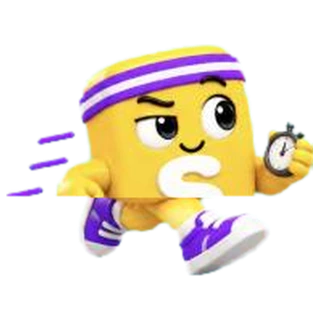
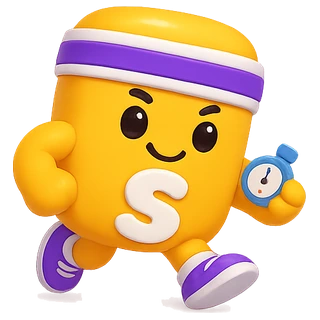
Call It coin (founder 10-10): a real 3D end-over-end flip at display rate — crouch, launch, five turns slowing as it falls, landing squash + bounce + teeter, then the reveal (glow + success haptic) and only then the result line; ticks slow with the spin. Cast accuracy: no cast art is ever mirrored (

diff --git a/apps/ios/Wordocious/Sources/FriendlyGameScreen.swift b/apps/ios/Wordocious/Sources/FriendlyGameScreen.swift
@@ -788,12 +788,11 @@ struct FriendlyGameScreen: View {
         VStack(spacing: 14) {
             // §L: the coin sits on the shared tray.
             VStack(spacing: 8) {
-                SpinningCoin(face: c.rounds.last?.flip ?? .heads, spinKey: c.rounds.count)
-                if let last = c.rounds.last {
-                    let who = last.caller == g.me ? "You" : themName
-                    Text("\(who) called \(last.call.rawValue) · it landed \(last.flip.rawValue)")
-                        .font(Brand.font(12, .bold)).foregroundStyle(FriendsInk.muted)
+                let caption = c.rounds.last.map { last in
+                    "\(last.caller == g.me ? "You" : themName) called \(last.call.rawValue) · it landed \(last.flip.rawValue)"
                 }
+                // The result line rides with the coin and appears only once it has landed (no spoiler mid-flip).
+                SpinningCoin(face: c.rounds.last?.flip ?? .heads, spinKey: c.rounds.count, caption: caption)
             }
             .frame(maxWidth: .infinity)
             .gameTray(accent: FriendsKit.tileAccent(.coin), state: trayState(g))
@@ -1309,56 +1308,142 @@ private struct RpsReveal: View {
     }
 }
 
-/// The Call It coin art: spins briefly on each new flip, then lands on the server's face.
+/// The Call It coin (founder 10-10: "smoother and a bit more suspenseful"): on each new flip it crouches, launches, turns
+/// end over end in real 3D (fast at first, slowing over its last turns as it falls), lands with a small bounce, teeters
+/// for a beat, THEN shows the face and the result line. Everything runs on SwiftUI animations (display rate); the face
+/// is picked per frame from the turn angle. Haptic ticks slow down with the spin. Reduce Motion: the face, no flip.
 private struct SpinningCoin: View {
     let face: CoinFace
     let spinKey: Int
-    /// The art shown right now: nil = the landed face, else a flip frame (tilt, edge, tilt).
-    @State private var frame: String?
+    /// The result line, shown only once the coin has settled (never before it lands).
+    var caption: String? = nil
+    @State private var angle: Double = 0
     @State private var hop: CGFloat = 0
+    @State private var squash: CGFloat = 1
+    @State private var teeter: Double = 0
+    @State private var settled = true
+    @State private var glow = false
+    @State private var shownFace: CoinFace?
     @State private var flipTask: Task<Void, Never>?
 
     var body: some View {
-        let showing = frame ?? PocketArt.coin(face)
-        ZStack {
-            if let shadow = PocketArt.coinShadow {
-                // The contact shadow shrinks as the coin hops.
-                Image(shadow).resizable().interpolation(.high).scaledToFit()
-                    .frame(width: 140, height: 140)
-                    .offset(y: 10)
-                    .scaleEffect(1 + hop / 160)
-                    .opacity(0.9)
-                    .accessibilityHidden(true)
+        let landed = shownFace ?? face
+        VStack(spacing: 8) {
+            ZStack {
+                if let shadow = PocketArt.coinShadow {
+                    // The contact shadow shrinks and fades as the coin rises.
+                    Image(shadow).resizable().interpolation(.high).scaledToFit()
+                        .frame(width: 140, height: 140)
+                        .offset(y: 10)
+                        .scaleEffect(1 + hop / 260)
+                        .opacity(0.9 + Double(hop) / 260)
+                        .accessibilityHidden(true)
+                }
+                // the reveal glow
+                Circle().fill(RadialGradient(colors: [Color(hex: 0xFDE68A).opacity(0.7), .clear], center: .center,
+                                             startRadius: 10, endRadius: 110))
+                    .frame(width: 220, height: 220)
+                    .opacity(glow ? 1 : 0)
+                    .scaleEffect(glow ? 1 : 0.6)
+                    .allowsHitTesting(false)
+                CoinFlipFace(angle: angle, front: PocketArt.coin(landed),
+                             back: PocketArt.coin(landed == .heads ? .tails : .heads))
+                    .frame(width: 150, height: 150)
+                    .scaleEffect(x: 2 - squash, y: squash, anchor: .bottom)
+                    .rotationEffect(.degrees(teeter), anchor: .bottom)
+                    .offset(y: hop)
+                    .shadow(color: Color(hex: 0xCA8A04).opacity(0.35), radius: 12, y: 4)
             }
-            Image(showing)
-                .resizable().interpolation(.high).scaledToFit()
-                .frame(width: 150, height: 150)
-                .offset(y: hop)
-                .shadow(color: Color(hex: 0xCA8A04).opacity(0.35), radius: 12, y: 4)
+            .frame(width: 150, height: 160)
+            if let caption {
+                Text(caption)
+                    .font(Brand.font(12, .bold)).foregroundStyle(FriendsInk.muted)
+                    .opacity(settled ? 1 : 0)
+                    .animation(.easeOut(duration: 0.25), value: settled)
+            }
         }
-        .frame(width: 150, height: 160)
         .accessibilityElement(children: .ignore)
-        .accessibilityLabel(face == .heads ? "Coin, heads" : "Coin, tails")   // §AB
+        .accessibilityLabel(settled ? (face == .heads ? "Coin, heads" : "Coin, tails") : "Coin flipping")   // §AB
         .onChange(of: spinKey) { _ in flip() }
         .onDisappear { flipTask?.cancel() }
     }
 
-    /// Wave 3: face -> tilt -> edge -> tilt -> face, a small hop, ~0.45 s. Reduce Motion: no flip.
+    private func wait(_ s: Double) async { try? await Task.sleep(nanoseconds: UInt64(s * 1_000_000_000)) }
+
     private func flip() {
-        guard !Theme.reduceMotion else { return }
         flipTask?.cancel()
-        let frames = [PocketArt.coinTilt, PocketArt.coinEdge, PocketArt.coinTilt].compactMap { $0 }
+        guard !Theme.reduceMotion else { shownFace = face; settled = true; return }
+        let result = face
+        // Start from whatever face is showing now; end on the result after five whole turns (+ a half if it changes).
+        let before = shownFace ?? (result == .heads ? .tails : .heads)
+        settled = false
+        glow = false
         flipTask = Task { @MainActor in
-            withAnimation(.easeOut(duration: 0.2)) { hop = -22 }
-            for name in frames {
-                if Task.isCancelled { return }
-                frame = name
-                try? await Task.sleep(nanoseconds: 70_000_000)
+            shownFace = result
+            var t = Transaction(); t.disablesAnimations = true
+            withTransaction(t) { angle = before == result ? 0 : 180 }
+            // crouch
+            withAnimation(.easeOut(duration: 0.14)) { squash = 0.86 }
+            await wait(0.14)
+            Haptics.medium()
+            // launch: up fast, then the fall; the turns slow toward the end (the suspense)
+            let spin = 1.55
+            withAnimation(.timingCurve(0.12, 0.55, 0.2, 1, duration: spin)) { angle = 360 * 5 }
+            withAnimation(.easeOut(duration: 0.12)) { squash = 1.06 }
+            withAnimation(.easeOut(duration: spin * 0.46)) { hop = -120 }
+            // ticks that slow with the spin
+            Task { @MainActor in
+                for gap in [0.12, 0.13, 0.15, 0.18, 0.22, 0.27, 0.34] {
+                    await wait(gap)
+                    if Task.isCancelled { return }
+                    Haptics.selection()
+                }
             }
+            await wait(spin * 0.46)
             if Task.isCancelled { return }
-            frame = nil
-            withAnimation(.easeIn(duration: 0.2)) { hop = 0 }
+            withAnimation(.easeIn(duration: spin * 0.54)) { hop = 0; squash = 1 }
+            await wait(spin * 0.54)
+            if Task.isCancelled { return }
+            // land: a squash + a small bounce, then a teeter before it settles
+            Haptics.heavy()
+            withAnimation(.easeOut(duration: 0.08)) { squash = 0.88 }
+            await wait(0.08)
+            withAnimation(.spring(response: 0.28, dampingFraction: 0.5)) { squash = 1; hop = -12 }
+            await wait(0.14)
+            withAnimation(.easeIn(duration: 0.14)) { hop = 0 }
+            withAnimation(.easeInOut(duration: 0.16)) { teeter = 7 }
+            await wait(0.16)
+            withAnimation(.easeInOut(duration: 0.16)) { teeter = -5 }
+            await wait(0.16)
+            withAnimation(.spring(response: 0.3, dampingFraction: 0.6)) { teeter = 0 }
+            await wait(0.12)
+            if Task.isCancelled { return }
+            // the reveal
+            Haptics.success()
+            withAnimation(.easeOut(duration: 0.3)) { glow = true; settled = true }
+            await wait(0.9)
+            withAnimation(.easeIn(duration: 0.5)) { glow = false }
         }
+    }
+}
+
+/// The coin turning end over end around its horizontal axis: the visible face is picked from the angle each frame, the
+/// art squashes to its edge as it turns and darkens a touch on the far side of the turn.
+private struct CoinFlipFace: View, Animatable {
+    var angle: Double
+    let front: String
+    let back: String
+    var animatableData: Double {
+        get { angle }
+        set { angle = newValue }
+    }
+
+    var body: some View {
+        let c = cos(angle * .pi / 180)
+        Image(c >= 0 ? front : back)
+            .resizable().interpolation(.high).scaledToFit()
+            .scaleEffect(x: 1, y: max(0.07, abs(c)))
+            .brightness(-0.18 * (1 - abs(c)))
     }
 }
 

diff --git a/apps/web/components/leaderboard/leaderboard-banner.tsx b/apps/web/components/leaderboard/leaderboard-banner.tsx
@@ -137,7 +137,7 @@ export function StageTitle({ today }: { today: string | null }) {
           <span className="flex-1 min-w-0" key={`b${taps}`} style={{ paddingBottom: 14 }} aria-hidden="true">
             <BubbleOneLine text={line2 || ' '} palette="leaderboard" size={42} />
           </span>
-          {host ? <Host castId={host.castId} pose={host.pose} size={72} flip /> : <span style={{ width: 72 }} />}
+          {host ? <Host castId={host.castId} pose={host.pose} size={72} /> : <span style={{ width: 72 }} />}
         </div>
       </h1>
       {/* the cloud fades out above this line, so on a dark theme it takes a warm light ink (globals.css .lb-date-ink) */}

diff --git a/apps/ios/Wordocious/Sources/AchievementUnlockPopup.swift b/apps/ios/Wordocious/Sources/AchievementUnlockPopup.swift
@@ -456,8 +456,8 @@ struct AchievementUnlockPopup: View {
                     } else if !isLevel {
                         HStack(spacing: badgeSize * 0.62) {
                             PoseImage(Self.presenters[0].0, Self.presenters[0].1, height: 82)
+                            // Never mirrored: a mirrored cast member wears its letter backwards (founder 10-10).
                             PoseImage(Self.presenters[1].0, Self.presenters[1].1, height: 82)
-                                .scaleEffect(x: -1, y: 1)
                         }
                         .offset(y: 26)
                         .opacity(badgeIn ? 1 : 0)

diff --git a/apps/ios/Wordocious/Sources/LeaderboardStageView.swift b/apps/ios/Wordocious/Sources/LeaderboardStageView.swift
@@ -167,7 +167,7 @@ struct StageTitleRow: View {
                     ArtThumbs.image("art-pose-\(host.castId)-\(host.pose)", points: 90)
                         .resizable().interpolation(.high).scaledToFit()
                         .frame(width: 72, height: 72)
-                        .scaleEffect(x: -1, y: 1)
+                        // Never mirrored: a mirrored cast member wears its letter backwards (founder 10-10).
                         .shadow(color: Color(hex: 0x3C1478).opacity(0.22), radius: 4, x: 0, y: 3)
                         .accessibilityHidden(true)
                 }

diff --git a/apps/android/app/src/main/kotlin/com/wordocious/app/ui/LeaderboardStageKit.kt b/apps/android/app/src/main/kotlin/com/wordocious/app/ui/LeaderboardStageKit.kt
@@ -264,7 +264,8 @@ internal fun StageTitleRow() {
                 if (hostRes != 0) {
                     Image(
                         painterResource(hostRes), null,
-                        Modifier.size(72.dp).graphicsLayer { scaleX = -1f },
+                        // Never mirrored: a mirrored cast member wears its letter backwards (founder 10-10).
+                        Modifier.size(72.dp),
                         contentScale = ContentScale.Fit,
                     )
                 } else Box(Modifier.size(72.dp))
